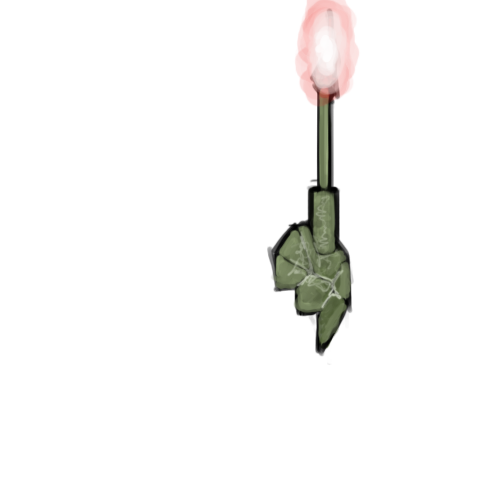
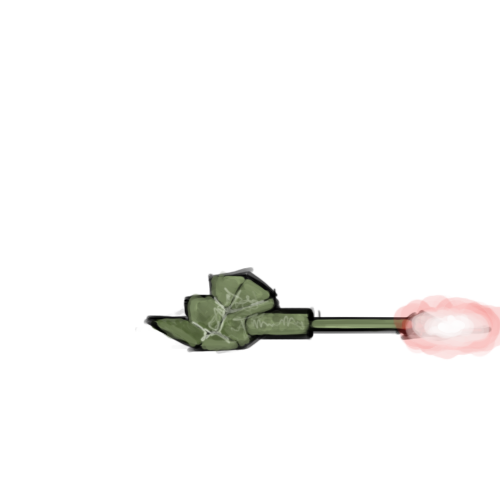
Implemented more of the Mech.  It now has correct artwork, lasers work correctly, dual lasers work correctly. TODO: test the Mech with the default plasma turret, test the Mech with the anti-projectile projectile turret, implement with upgrades and everything.

Changed region(s): [[0.27, 0.0, 1.0, 0.72]]

diff --git a/trunk/Line_Wars/src/linewars/gamestate/mapItems/strategies/turret/MechTurretStrategyConfiguration.java b/trunk/Line_Wars/src/linewars/gamestate/mapItems/strategies/turret/MechTurretStrategyConfiguration.java
@@ -3,6 +3,7 @@ package linewars.gamestate.mapItems.strategies.turret;
 import linewars.gamestate.Position;
 import linewars.gamestate.Transformation;
 import linewars.gamestate.mapItems.MapItem;
+import linewars.gamestate.mapItems.Projectile;
 import linewars.gamestate.mapItems.ProjectileDefinition;
 import linewars.gamestate.mapItems.Turret;
 import linewars.gamestate.mapItems.Unit;
@@ -30,27 +31,37 @@ public class MechTurretStrategyConfiguration extends TurretStrategyConfiguration
 	private static final Usage rangeUsage = Usage.NUMERIC_FLOATING_POINT;
 	private static final EditorUsage rangeEditorUsage = EditorUsage.PositiveReal;
 	private static final String rangeDescription = "The maximum distance that this Turret can consider targets.";
-	private static final EditorProperty rangeProperty = new EditorProperty(rangeUsage, null, rangeEditorUsage, rangeDescription);
+	private EditorProperty rangeProperty = new EditorProperty(rangeUsage, null, rangeEditorUsage, rangeDescription);
 	
 	//the minimum distance that it would like to be at from its target
 	private static final String minRangeName = "minimumRange";
 	private static final Usage minRangeUsage = Usage.NUMERIC_FLOATING_POINT;
 	private static final EditorUsage minRangeEditorUsage = EditorUsage.PositiveReal;
 	private static final String minRangeDescription = "The minimum distance that this Turret would like to maintain from its target. Note that it can still shoot at things closer than this.";
-	private static final EditorProperty minRangeProperty = new EditorProperty(minRangeUsage, null, minRangeEditorUsage, minRangeDescription);
+	private EditorProperty minRangeProperty = new EditorProperty(minRangeUsage, null, minRangeEditorUsage, minRangeDescription);
 	
 	//the type of projectile it shoots
 	private static final String projectileName = "projectile";
 	private static final Usage projectileUsage = Usage.CONFIGURATION;
 	private static final EditorUsage projectileEditorUsage = EditorUsage.ProjectileConfig;
 	private static final String projectileDescription = "The Configuration of the Projectile that this TurretStrategy should shoot.";
-	private static final EditorProperty projectileProperty = new EditorProperty(projectileUsage, null, projectileEditorUsage, projectileDescription);
+	private EditorProperty projectileProperty = new EditorProperty(projectileUsage, null, projectileEditorUsage, projectileDescription);
 	
-	//the proportion of the width of the Mech that this turret spawns projectiles in god this is so confusing...
+	//the proportion of the width of the Mech that this turret is offset by... ranges f
+	private static final String offsetName = "offset";
+	private static final Usage offsetUsage = Usage.NUMERIC_FLOATING_POINT;
+	private static final EditorUsage offsetEditorUsage = EditorUsage.Real;
+	private static final String offsetDescription = "A real-valued offset used to compute where the projectiles are spawned.\n" +
+			"If it is set to 0, projectiles will be spawned immediately in front of the Turret.\n" +
+			"If it is set to 1, projectiles will be spawned on the far right edge of the Turret.\n" +
+			"If it is set to -1, projectiles will be spawned on the far left edge of the Turret.";
+	private EditorProperty offsetProperty = new EditorProperty(offsetUsage, null, offsetEditorUsage, offsetDescription);
+	
 	public MechTurretStrategyConfiguration(){
 		this.setPropertyForName(rangeName, rangeProperty);
 		this.setPropertyForName(minRangeName, minRangeProperty);
 		this.setPropertyForName(projectileName, projectileProperty);
+		this.setPropertyForName(offsetName, offsetProperty);
 	}
 	
 	@Override
@@ -97,12 +108,20 @@ public class MechTurretStrategyConfiguration extends TurretStrategyConfiguration
 			Position relativeTarget = target.subtract(thisLocation);
 			double direction = relativeTarget.getAngle();
 			
-			//we need to compute an offset so that the projectile is spawned in front of the turret, not in the turret
+			//we need to compute a forward offset so that the projectile is spawned in front of the turret, not in the turret
 			double turretLength = owner.getBody().boundingRectangle().getWidth() / 2;
 			Position turretOffset = Position.getUnitVector(direction).scale(turretLength);
 			Position spawnAt = thisLocation.add(turretOffset);
 			
-			projectile.createMapItem(new Transformation(spawnAt, direction), owner.getOwner(), owner.getGameState());
+			//now we must also compute a sideways offset because this turret probably has to do the wierd rotate-y shit
+			double turretWidth = owner.getBody().boundingRectangle().getHeight() / 2;
+			double horizontalOffsetRatio = (Double) MechTurretStrategyConfiguration.this.getPropertyForName(offsetName).getValue();
+			double horizontalOffset = turretWidth * horizontalOffsetRatio;
+			turretOffset = Position.getUnitVector(direction + Math.PI / 2).scale(horizontalOffset);
+			spawnAt = spawnAt.add(turretOffset);
+			
+			Projectile spawnedProjectile = projectile.createMapItem(new Transformation(spawnAt, direction), owner.getOwner(), owner.getGameState());
+			owner.getWave().getLane().addProjectile(spawnedProjectile);
 		}
 
 		@Override

diff --git a/trunk/Line_Wars/src/linewars/gamestate/mapItems/strategies/impact/DoDPSConfiguration.java b/trunk/Line_Wars/src/linewars/gamestate/mapItems/strategies/impact/DoDPSConfiguration.java
@@ -1,0 +1,90 @@
+package linewars.gamestate.mapItems.strategies.impact;
+
+import linewars.gamestate.Position;
+import linewars.gamestate.mapItems.MapItem;
+import linewars.gamestate.mapItems.MapItemModifier.MapItemModifiers;
+import linewars.gamestate.mapItems.Projectile;
+import linewars.gamestate.mapItems.Unit;
+import linewars.gamestate.mapItems.strategies.StrategyConfiguration;
+import configuration.Usage;
+import editor.abilitiesstrategies.AbilityStrategyEditor;
+import editor.abilitiesstrategies.EditorProperty;
+import editor.abilitiesstrategies.EditorUsage;
+
+public class DoDPSConfiguration extends ImpactStrategyConfiguration {
+
+	/**
+	 * 
+	 */
+	private static final long serialVersionUID = -5469258878542063451L;
+	
+	private static final String name = "Do DPS and Remain";
+	
+	static{
+		StrategyConfiguration.setStrategyConfigMapping(name, DoDPSConfiguration.class, AbilityStrategyEditor.class);
+	}
+	
+	private static final String dpsName = "dps";
+	private static final Usage dpsUsage = Usage.NUMERIC_FLOATING_POINT;
+	private static final EditorUsage dpsEditorUsage = EditorUsage.PositiveReal;
+	private static final String dpsDescription = "Deals constant damage over time to its targets.";
+	
+	public DoDPSConfiguration(){
+		EditorProperty dpsProperty = new EditorProperty(dpsUsage, null, dpsEditorUsage, dpsDescription);
+		this.setPropertyForName(dpsName, dpsProperty);
+	}
+	
+	@Override
+	public ImpactStrategy createStrategy(MapItem m) {
+		return new DoDPS((Projectile) m);
+	}
+
+	@Override
+	public boolean equals(Object obj) {
+		if(obj == null || !(obj instanceof DoDPSConfiguration)) return false;
+		DoDPSConfiguration other = (DoDPSConfiguration) obj;
+		return other.getPropertyForName(dpsName).equals(this.getPropertyForName(dpsName));
+	}
+
+	public class DoDPS implements ImpactStrategy{
+		
+		Projectile owner;
+
+		public DoDPS(Projectile m) {
+			owner = m;
+		}
+
+		@Override
+		public String name() {
+			return name;
+		}
+
+		@Override
+		public ImpactStrategyConfiguration getConfig() {
+			return DoDPSConfiguration.this;
+		}
+
+		@Override
+		public void handleImpact(MapItem m) {
+			if(!(m instanceof Unit)){
+				throw new IllegalArgumentException("This impac strategy cannot deal damage to non-units.");
+			}
+			
+			Unit target = (Unit) m;
+			
+			double timeElapsed = m.getGameState().getLastLoopTime();
+			double damageMultiplier = owner.getModifier().getModifier(MapItemModifiers.damageDealt);
+			double rofMultiplier = owner.getModifier().getModifier(MapItemModifiers.fireRate);
+			double dps = (Double) DoDPSConfiguration.this.getPropertyForName(dpsName).getValue();
+			double damageToDeal = dps * timeElapsed * damageMultiplier * rofMultiplier;
+			
+			double currentHealth = target.getHP();
+			target.setHP(currentHealth - damageToDeal);
+		}
+
+		@Override
+		public void handleImpact(Position p) {
+		}
+		
+	}
+}

diff --git a/trunk/Line_Wars/src/linewars/gamestate/mapItems/strategies/impact/DealDamageOnceConfiguration.java b/trunk/Line_Wars/src/linewars/gamestate/mapItems/strategies/impact/DealDamageOnceConfiguration.java
@@ -91,7 +91,7 @@ public strictfp class DealDamageOnceConfiguration extends ImpactStrategyConfigur
 	{
 		super.setPropertyForName("damage", new EditorProperty(
 				Usage.NUMERIC_FLOATING_POINT, null, EditorUsage.PositiveReal,
-				"The damage delt on impact"));
+				"The damage dealt on impact"));
 		this.addObserver(this);
 	}
 
